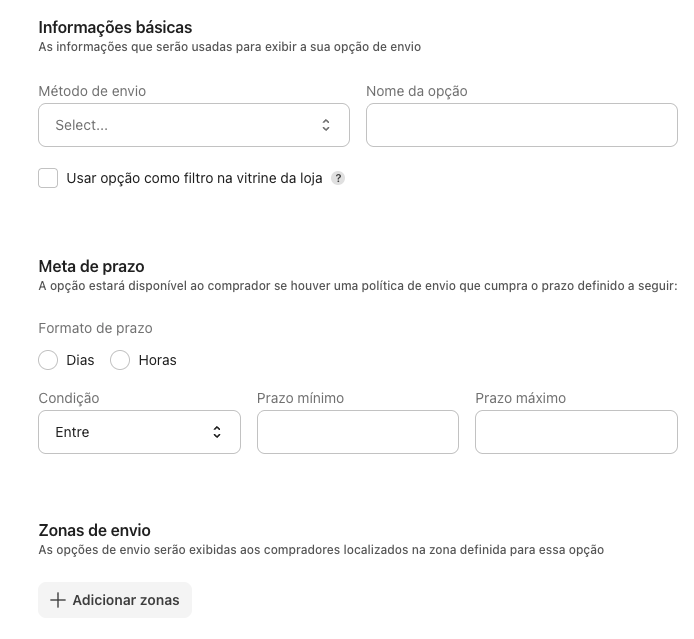
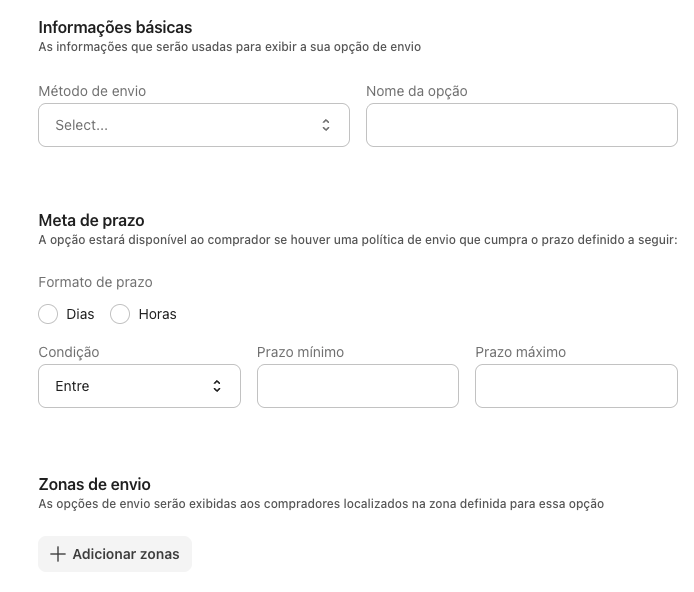
update: delivery-options-beta

diff --git a/docs/es/tutorials/beta/envío-beta/opciones-de-envio-beta.md b/docs/es/tutorials/beta/envío-beta/opciones-de-envio-beta.md
@@ -48,10 +48,7 @@ Para crear una nueva opción de envío sigue los pasos a continuación:
    ### Información general
 
    - **Método de envío:** selecciona el método de envío (**Envío**, **Entrega programada**, **Recogida**, **Recogida programada**).
-
    - **Nombre de la opción:** ingresa el nombre de la opción que se mostrará al cliente durante la compra.
-
-   - **Usar opción como filtro en la vitrina de la tienda**: marca la casilla para permitir que los clientes utilicen esta opción para filtrar los productos con los [filtros de Intelligent Search](/es/docs/tutorials/filtros).
 
    > ⚠ Los filtros de métodos de envío solo se mostrarán al cliente en la lista de productos si esta opción está activada. Si está desactivada, los filtros no se mostrarán.
 

diff --git a/docs/en/tutorials/beta/shipping-beta/delivery-options-beta.md b/docs/en/tutorials/beta/shipping-beta/delivery-options-beta.md
@@ -48,10 +48,7 @@ To create a delivery option, follow the steps below:
    ### Basic information
 
    - **Delivery method:** Select the type of delivery method (**Delivery**, **Scheduled delivery**, **Pickup**, **Scheduled pickup**).
-
    - **Option name:** Enter the name of the option the customer will see when purchasing.
-
-   - **Use option as a filter on the store product listing page**: Enable this to allow customers to filter products by this delivery option using [Intelligent Search filters](https://help.vtex.com/en/docs/tutorials/filters).
 
    > ⚠ Delivery method filters will only be displayed on the product listing page to the customer if this option is enabled. If disabled, the filters won't be displayed.
 

diff --git a/docs/pt/tutorials/beta/envio-beta/opcoes-de-envio-beta.md b/docs/pt/tutorials/beta/envio-beta/opcoes-de-envio-beta.md
@@ -49,7 +49,6 @@ Para criar uma nova opção de envio, siga os passos abaixo.
 
    - **Método de envio:** selecione o tipo de método de envio (**Entrega**, **Entrega agendada**, **Retirada**, **Retirada agendada**).
    - **Nome da opção:** digite o nome da opção que será visualizada pelo cliente durante a compra.
-   - **Usar opção como filtro na vitrine da loja**: ative para permitir que os clientes filtrem os produtos por esta opção de envio por meio dos [filtros do Intelligent Search](/pt/docs/tutorials/filtros).
 
    > ⚠ Os filtros de métodos de envio somente serão exibidos na listagem de produtos ao cliente se esta opção estiver ativada. Caso desativada, os filtros não serão exibidos.
 
